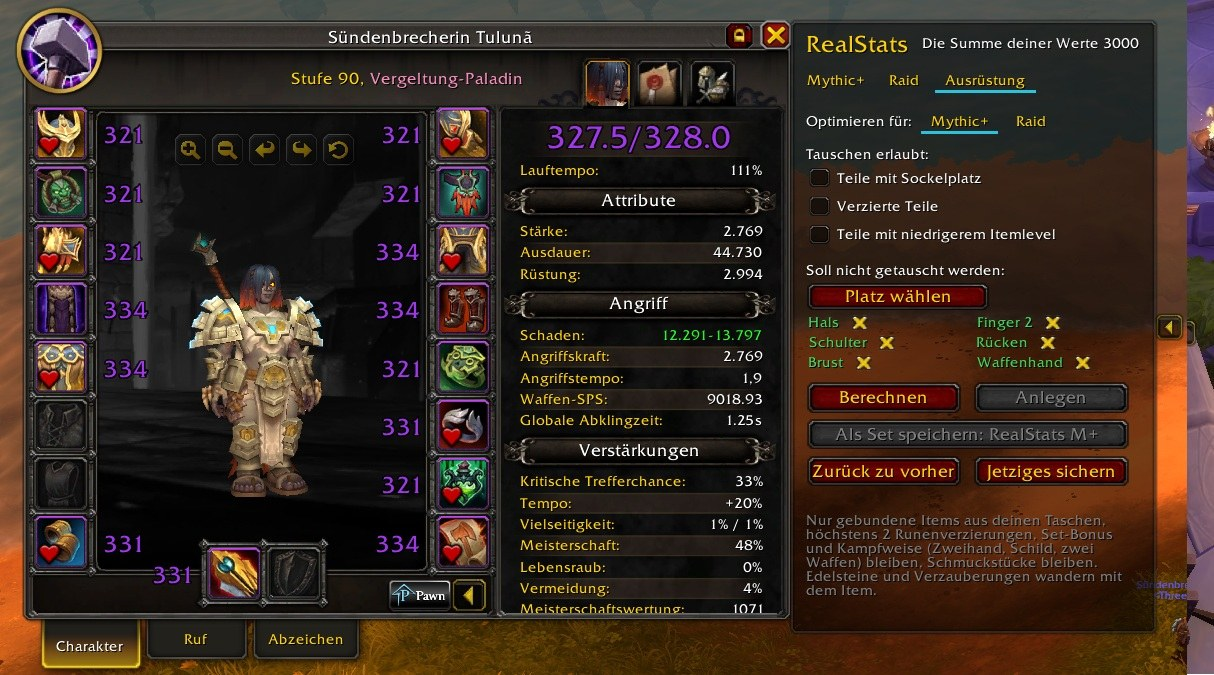
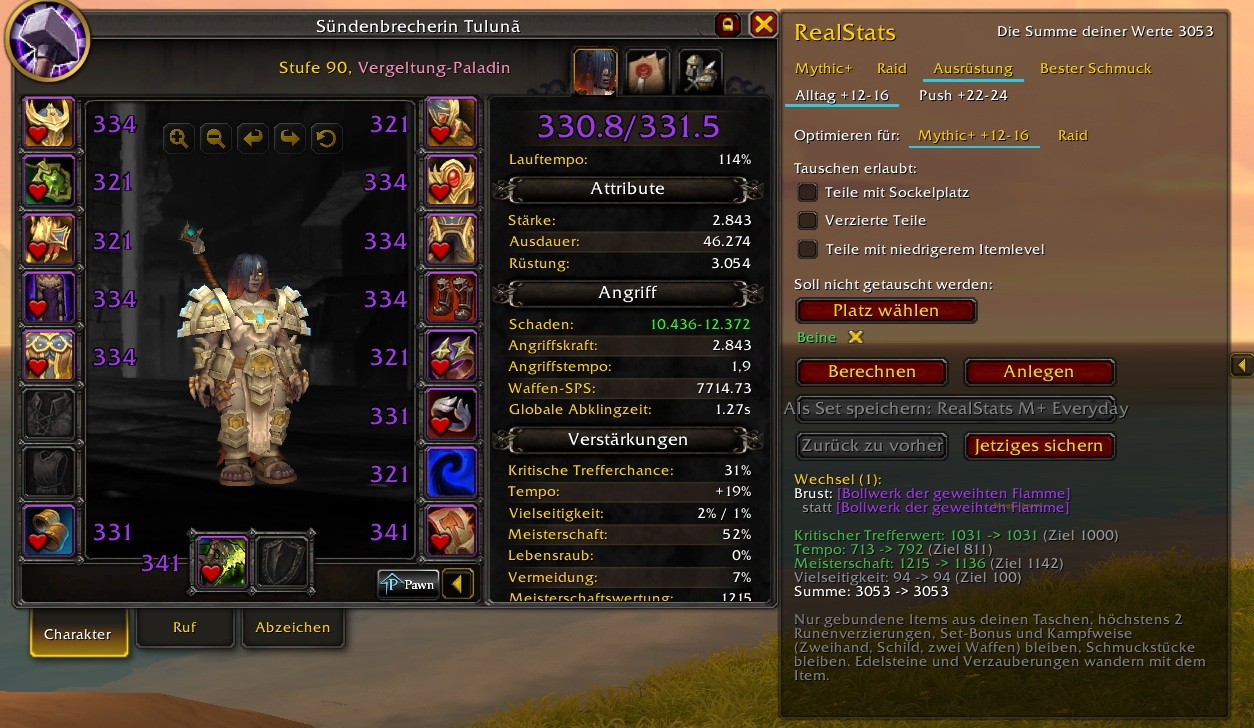
Screenshots und Beschreibung auf 1.2.0 gebracht
Neue Aufnahmen aller Reiter mit der Stufenzeile, dazu der Ausruestungs-Reiter
mit dem Set-Namen "RealStats M+ Everyday" und die Platzwahl. README und
CurseForge-Beschreibung erklaeren jetzt die zwei Leistungsstufen und den
Reiter "Bester Schmuck", der bisher ganz fehlte.

diff --git a/README.md b/README.md
@@ -16,13 +16,33 @@ actually distribute theirs. Docks to the right of the character window.
   roughly what item upgrades can still give you.
 * Targets for every class and specialization, updated every week (Wednesday).
 
+## Two key levels for Mythic+
+
+The line above the bars switches between **Everyday keys** (+12-16) and
+**Push keys** (the highest keys being run). The top logs come from players on
+very high keys - if you run +12 to +16, the everyday level fits you better.
+Everyday is preselected.
+
+How much this matters depends on your specialization. For healers and tanks the
+order of the stats can change completely (Holy Paladin, Preservation Evoker,
+Restoration Shaman), for most damage dealers barely anything moves. When both
+levels are nearly the same, RealStats says so, so nothing looks broken.
+
+The choice is remembered per character and specialization and also applies to
+the gear optimizer and the trinket tab.
+
+![RealStats: Best trinkets tab, switched to the everyday keys](https://raw.githubusercontent.com/tulunagaming/RealStats/main/docs/screenshot-best-trinkets.jpg)
+
 ## Tabs
 
 * **Mythic+** and **Raid**: separate targets, because the best players gear
   differently for each.
+* **Best trinkets**: which trinkets and embellishments the best players of your
+  spec wear, in percent, next to what you wear yourself.
 * **Gear**: finds the combination of equipped items and items in your bags that
   comes closest to the targets, equips it with one click and saves it as an
-  equipment set ("RealStats M+" / "RealStats Raid").
+  equipment set. Each key level gets its own set ("RealStats M+",
+  "RealStats M+ Everyday", "RealStats Raid"), so they never overwrite each other.
   Only bound items, at most 2 embellishments, set bonus kept, weapon style kept
   (two-hander, shield, dual wield, ranged), trinkets stay.
 
@@ -45,6 +65,8 @@ and balances over the remaining ones. Useful for a freshly socketed piece, a
 favourite look or anything you simply do not want touched. Saved per character
 and specialization, like the check boxes.
 
+![RealStats: pick a slot the optimizer has to leave alone](https://raw.githubusercontent.com/tulunagaming/RealStats/main/docs/screenshot-gear-keep-slot.jpg)
+
 ### Back to what you wore
 
 Next to the set button: **Back to previous** re-equips what you wore before the
@@ -64,12 +86,13 @@ Because they count towards your stat total, they also raise the targets of the
 so right under the bars whenever a fixed buff is active, so the numbers never
 look like a miscalculation.
 
-![RealStats: tooltip above the target - how much to give away](https://raw.githubusercontent.com/tulunagaming/RealStats/main/docs/screenshot-tooltip-above.jpg)
+![RealStats: tooltip on the total - median, mean and item level of the best](https://raw.githubusercontent.com/tulunagaming/RealStats/main/docs/screenshot-tooltip-total.jpg)
 
-![RealStats: tooltip below the target - how much is missing](https://raw.githubusercontent.com/tulunagaming/RealStats/main/docs/screenshot-tooltip-below.jpg)
+![RealStats: tooltip on a stat - how far you are from the range](https://raw.githubusercontent.com/tulunagaming/RealStats/main/docs/screenshot-tooltip-stat.jpg)
 
 The tooltip works both ways: above the range it tells you how much to give
-away, below it how much is missing.
+away, below it how much is missing. On the total line it compares your stat
+total and item level with the best players.
 
 ## Performance & stability
 
